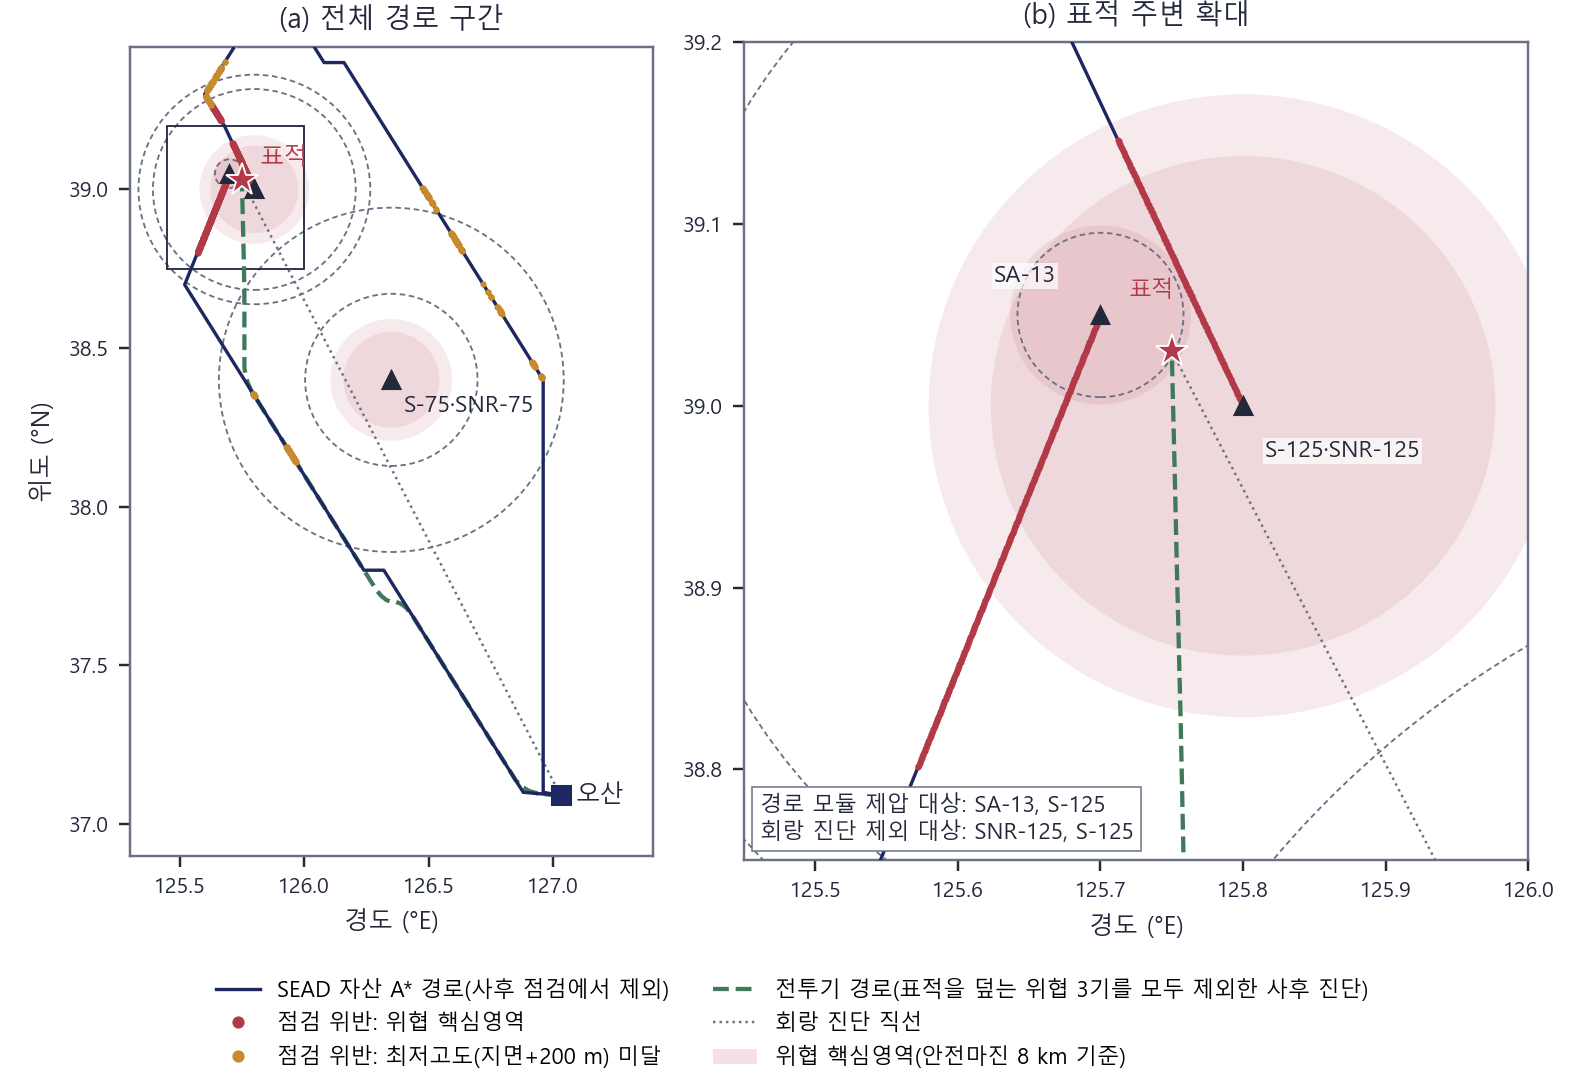
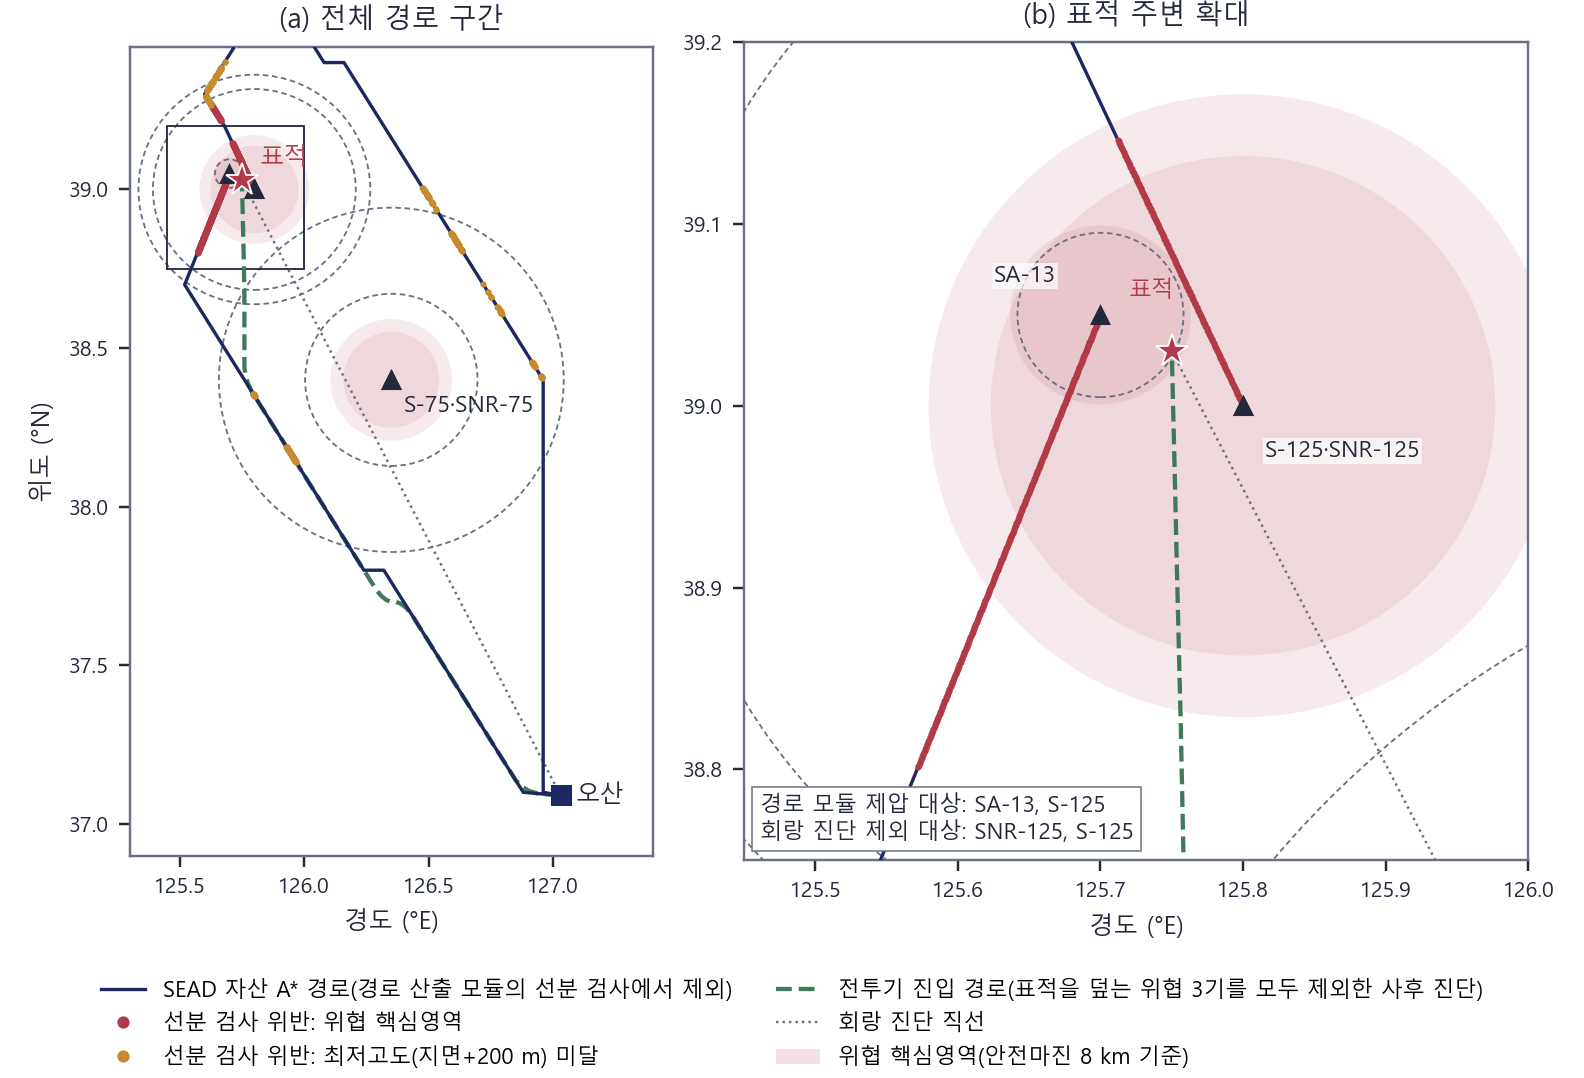
Figure R1: label SEAD rejections as segment-check results and mark the fighter ingress path

Changed region(s): [[0.0619, 0.8878, 0.8971, 1.0]]

diff --git a/experiments/E22_threat_terrain_e2e/rerun_20261109/make_figures.py b/experiments/E22_threat_terrain_e2e/rerun_20261109/make_figures.py
@@ -168,10 +168,10 @@ axes[1].text(0.02, 0.02, tbl, transform=axes[1].transAxes, fontsize=7.3, color=I
              bbox=dict(fc="white", ec=GREY, lw=0.5, pad=2.5))
 
 handles = [
-    Line2D([], [], color=NAVY, lw=1.1, label="SEAD 자산 A* 경로(사후 점검에서 제외)"),
-    Line2D([], [], color=RED, marker="o", ls="none", ms=3, label="점검 위반: 위협 핵심영역"),
-    Line2D([], [], color=AMBER, marker="o", ls="none", ms=3, label="점검 위반: 최저고도(지면+200 m) 미달"),
-    Line2D([], [], color=GREEN, lw=1.4, ls="--", label="전투기 경로(표적을 덮는 위협 3기를 모두 제외한 사후 진단)"),
+    Line2D([], [], color=NAVY, lw=1.1, label="SEAD 자산 A* 경로(경로 산출 모듈의 선분 검사에서 제외)"),
+    Line2D([], [], color=RED, marker="o", ls="none", ms=3, label="선분 검사 위반: 위협 핵심영역"),
+    Line2D([], [], color=AMBER, marker="o", ls="none", ms=3, label="선분 검사 위반: 최저고도(지면+200 m) 미달"),
+    Line2D([], [], color=GREEN, lw=1.4, ls="--", label="전투기 진입 경로(표적을 덮는 위협 3기를 모두 제외한 사후 진단)"),
     Line2D([], [], color=GREY, lw=0.8, ls=":", label="회랑 진단 직선"),
     matplotlib.patches.Patch(fc=RED, alpha=0.15, label="위협 핵심영역(안전마진 8 km 기준)"),
 ]
